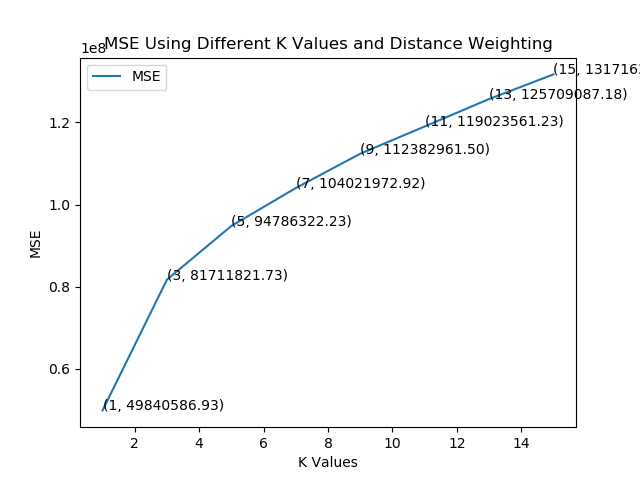
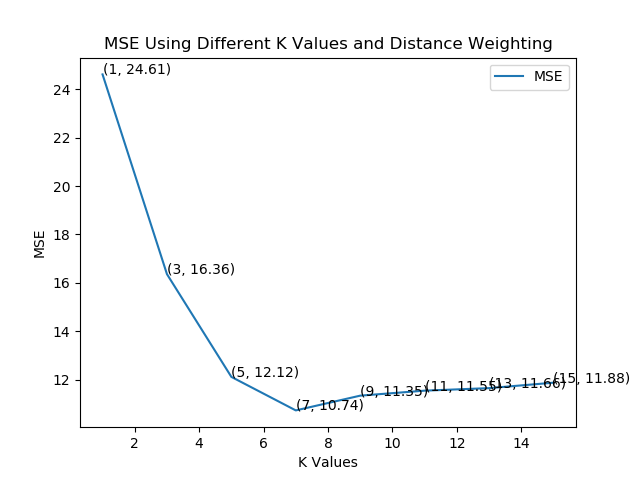
Fix MSE and redo incorrect graphs.

diff --git a/KNN/KNN.py b/KNN/KNN.py
@@ -141,11 +141,10 @@ class KNNClassifier(BaseEstimator,ClassifierMixin):
                 regression_output_value = 0
                 if 'inverse_distance' == self.weight_type:
                     distances = np.asarray(list(neighbors_info.keys()))
-                    temp = labels/(distances ** 2)
-                    regression_output_value = np.sum(temp)
+                    distances_squared = distances ** 2
+                    regression_output_value = np.sum(labels/distances_squared) / np.sum(1/distances_squared)
                 elif 'no_weight' == self.weight_type:
                     regression_output_value = np.mean(labels)
-                    predictions.append(regression_output_value)
                 else:
                     print("Not a valid_weight_type.")
 
@@ -456,7 +455,6 @@ def part6():
     h2, w2 = raw_data2.shape
     test_data = raw_data2[:, :-1]
     test_labels = raw_data2[:, -1]
-    print(test_labels)
     # Normalize Data.
     train_data, test_data = normalizeDataSets(train_data, test_data)
 
@@ -574,6 +572,6 @@ if __name__ == '__main__':
     # part1()
     # part2()
     # part3()
-    part4()
+    # part4()
     # part5()
-    # part6()
+    part6()
